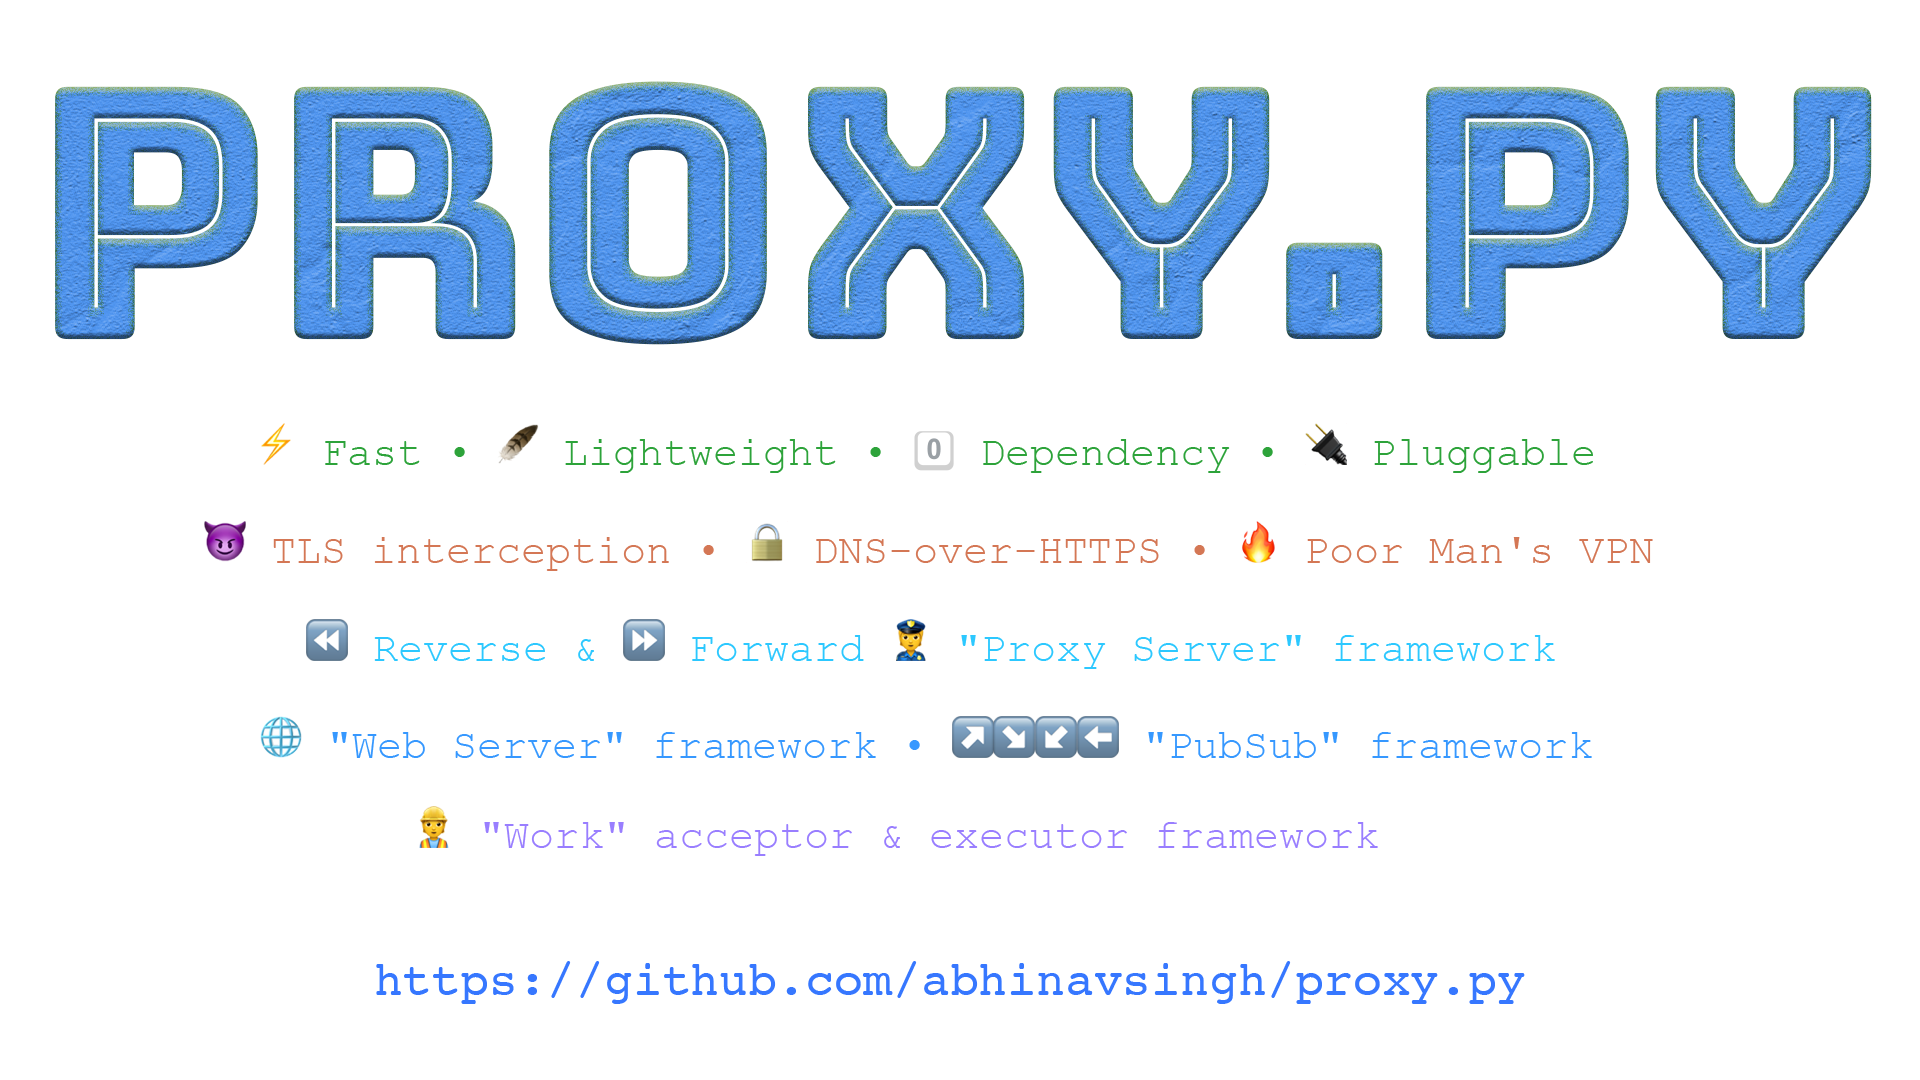
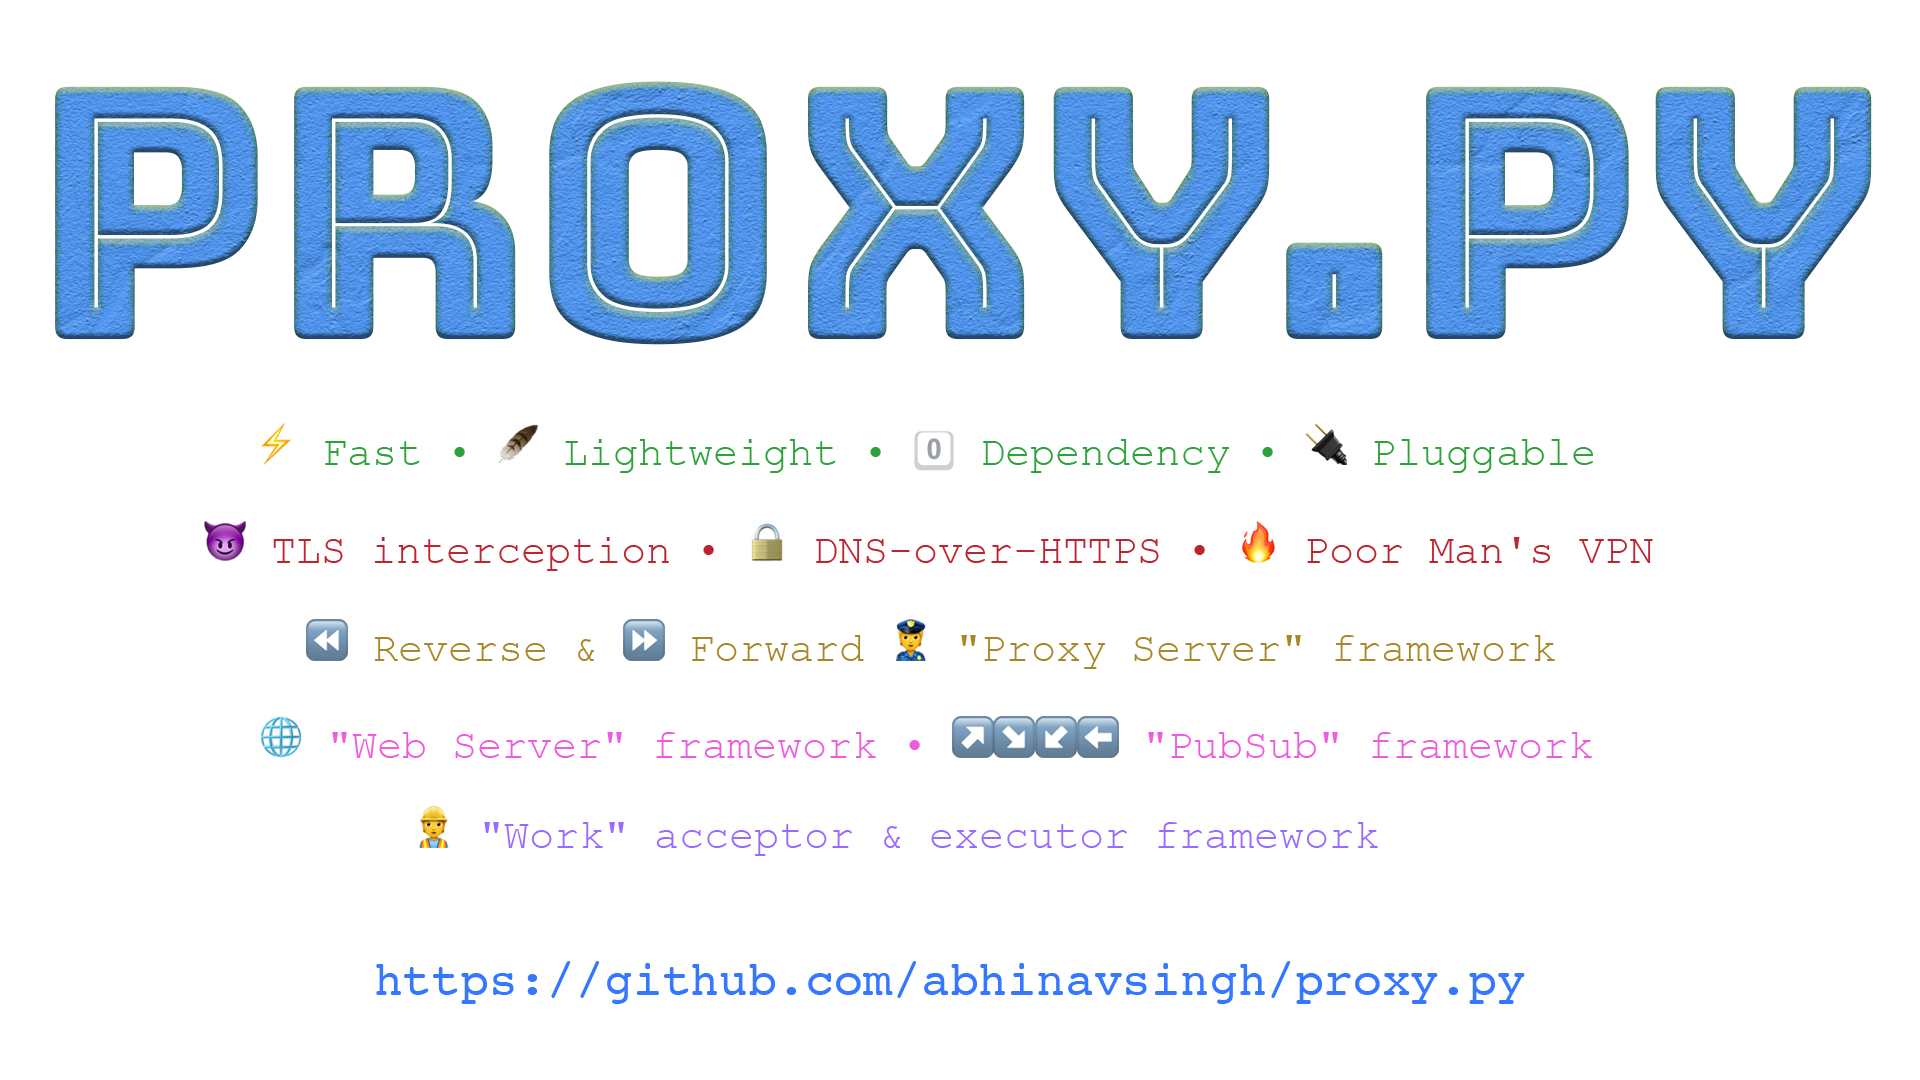
Use colors which also work with light mode

diff --git a/README.md b/README.md
@@ -1,4 +1,4 @@
-[![Proxy.Py](https://user-images.githubusercontent.com/126065/142456918-cc646b79-422e-4cf5-b00b-b073e98ce4bf.png)](https://github.com/abhinavsingh/proxy.py)
+[![Proxy.Py](https://user-images.githubusercontent.com/126065/142461654-cc4eb9fe-3a82-4a5a-b1bf-24b4e8d0f811.png)](https://github.com/abhinavsingh/proxy.py)
 
 [//]: # (DO-NOT-REMOVE-docs-badges-START)
 
